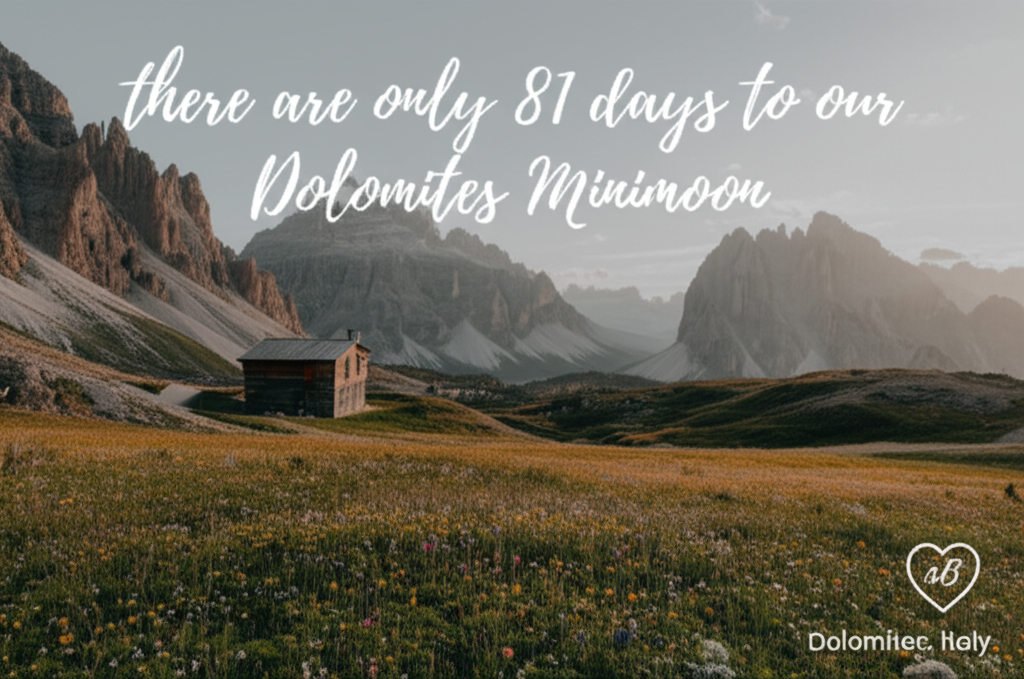
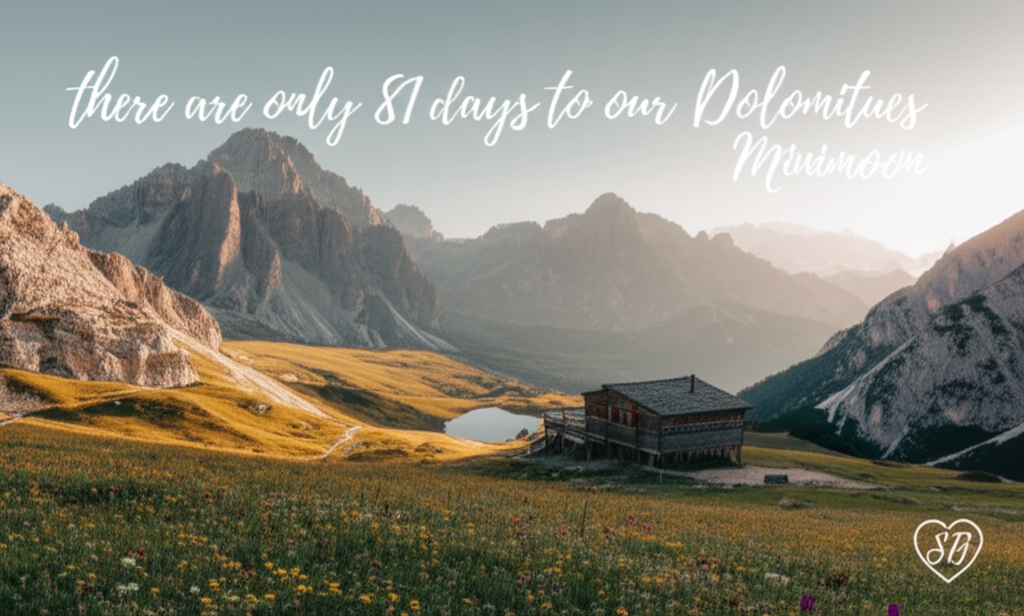
Fix badge, remove location labels from AI images, regenerate

diff --git a/index.html b/index.html
@@ -83,7 +83,7 @@
                     <span class="placeholder-emoji">🌅</span>
                     <span class="placeholder-text">Image generating... check back tomorrow!</span>
                 </div>
-                <div class="trip-badge">US Honeymoon 🇺🇸</div>
+                <div class="trip-badge">US Honeymoon</div>
             </div>
             <div class="trip-info">
                 <h2 class="trip-title">US Honeymoon</h2>

diff --git a/scripts/generate_images.py b/scripts/generate_images.py
@@ -33,14 +33,13 @@ def get_usa_prompt(days_remaining):
     return (
         f'A cinematic, high-resolution 16:9 landscape photograph of a famous California location '
         f'during golden hour. The landscape should fill the entire frame with NO heart shapes, '
-        f'NO frames, NO borders overlaid on the scenery. Show a different iconic spot each time: '
-        f'Hollywood sign from behind, Golden Gate Bridge at sunset, Big Sur cliffs, Yosemite valley, '
+        f'NO frames, NO borders, NO vignettes overlaid on the scenery. Choose one iconic spot: '
+        f'Golden Gate Bridge at sunset, Big Sur cliffs, Yosemite valley, '
         f'Pacific Coast Highway, or Napa Valley vineyards. '
         f'In the upper portion of the image, overlay clean elegant white cursive script text that reads: '
         f'"there are only {days_remaining} days to our US Honeymoon". '
         f'In the bottom right corner only, place a very small minimalist white heart outline with '
-        f'the letters "sB" inside it, and directly below it in small clean sans-serif font, '
-        f'the name of the location shown (e.g. "Hollywood, Los Angeles, California"). '
+        f'the letters "sB" inside it. No other text or labels. '
         f'The overall look should be like a premium travel postcard — romantic, airy, and elegant. '
         f'Do NOT add any heart shapes or decorative frames over the landscape itself.'
     )
@@ -49,14 +48,13 @@ def get_dolomites_prompt(days_remaining):
     return (
         f'A cinematic, high-resolution 16:9 landscape photograph of the Dolomites, Italy '
         f'during sunrise or sunset. The landscape should fill the entire frame with NO heart shapes, '
-        f'NO frames, NO borders overlaid on the scenery. Show iconic Dolomites scenery: '
+        f'NO frames, NO borders, NO vignettes overlaid on the scenery. Show iconic Dolomites scenery: '
         f'jagged limestone peaks, alpine meadows with wildflowers, a rustic mountain hut, '
         f'Lago di Braies, Seceda ridgeline, or Tre Cime di Lavaredo. '
         f'In the upper portion of the image, overlay clean elegant white cursive script text that reads: '
         f'"there are only {days_remaining} days to our Dolomites Minimoon". '
         f'In the bottom right corner only, place a very small minimalist white heart outline with '
-        f'the letters "sB" inside it, and directly below it in small clean sans-serif font, '
-        f'the text "Dolomites, Italy". '
+        f'the letters "sB" inside it. No other text or labels. '
         f'The overall look should be like a premium travel postcard — romantic, airy, and elegant. '
         f'Do NOT add any heart shapes or decorative frames over the landscape itself.'
     )
